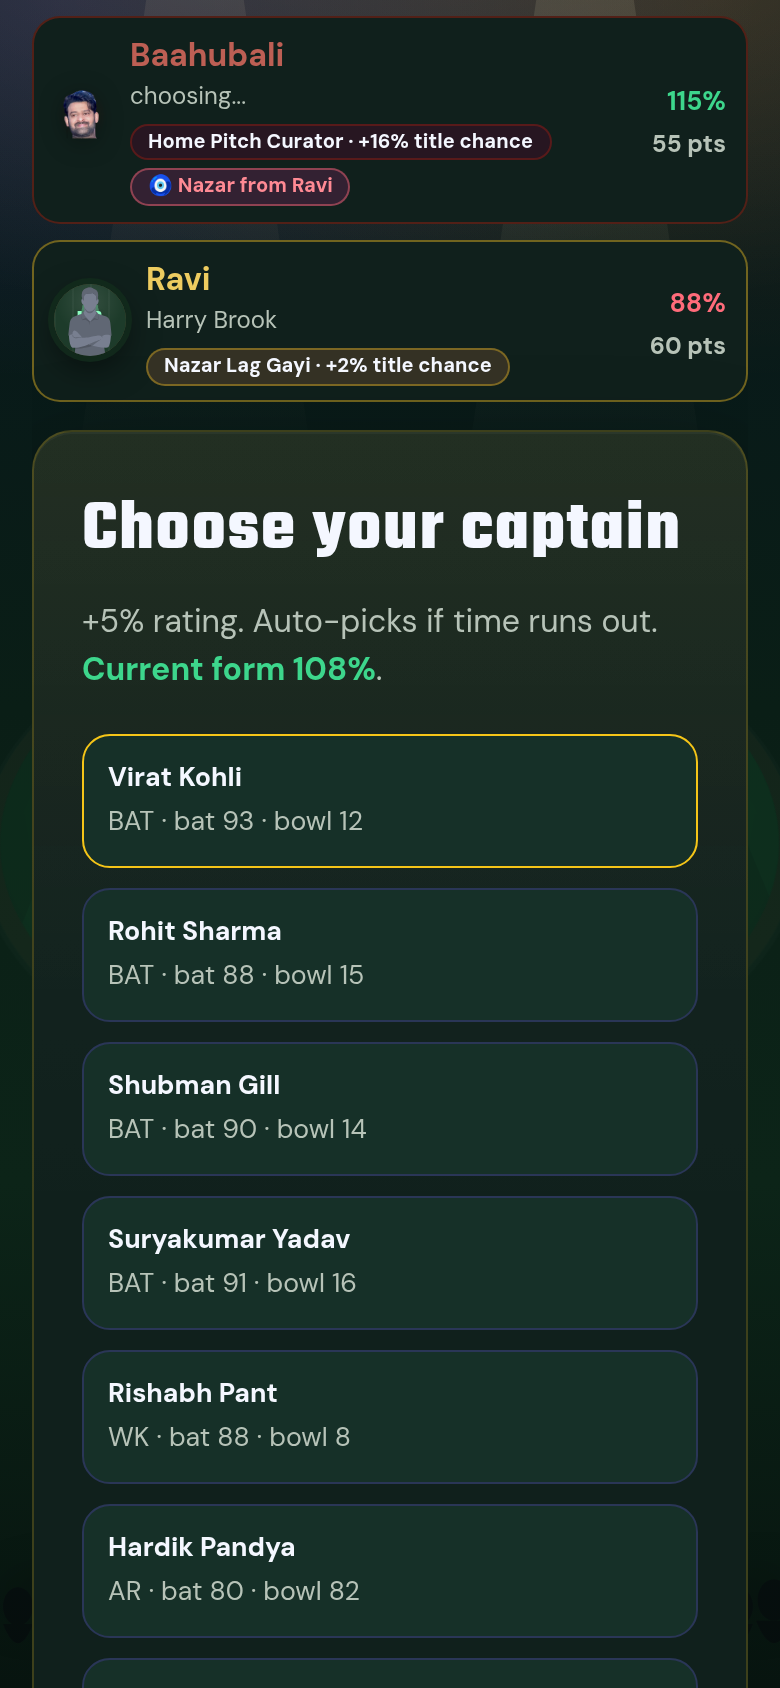
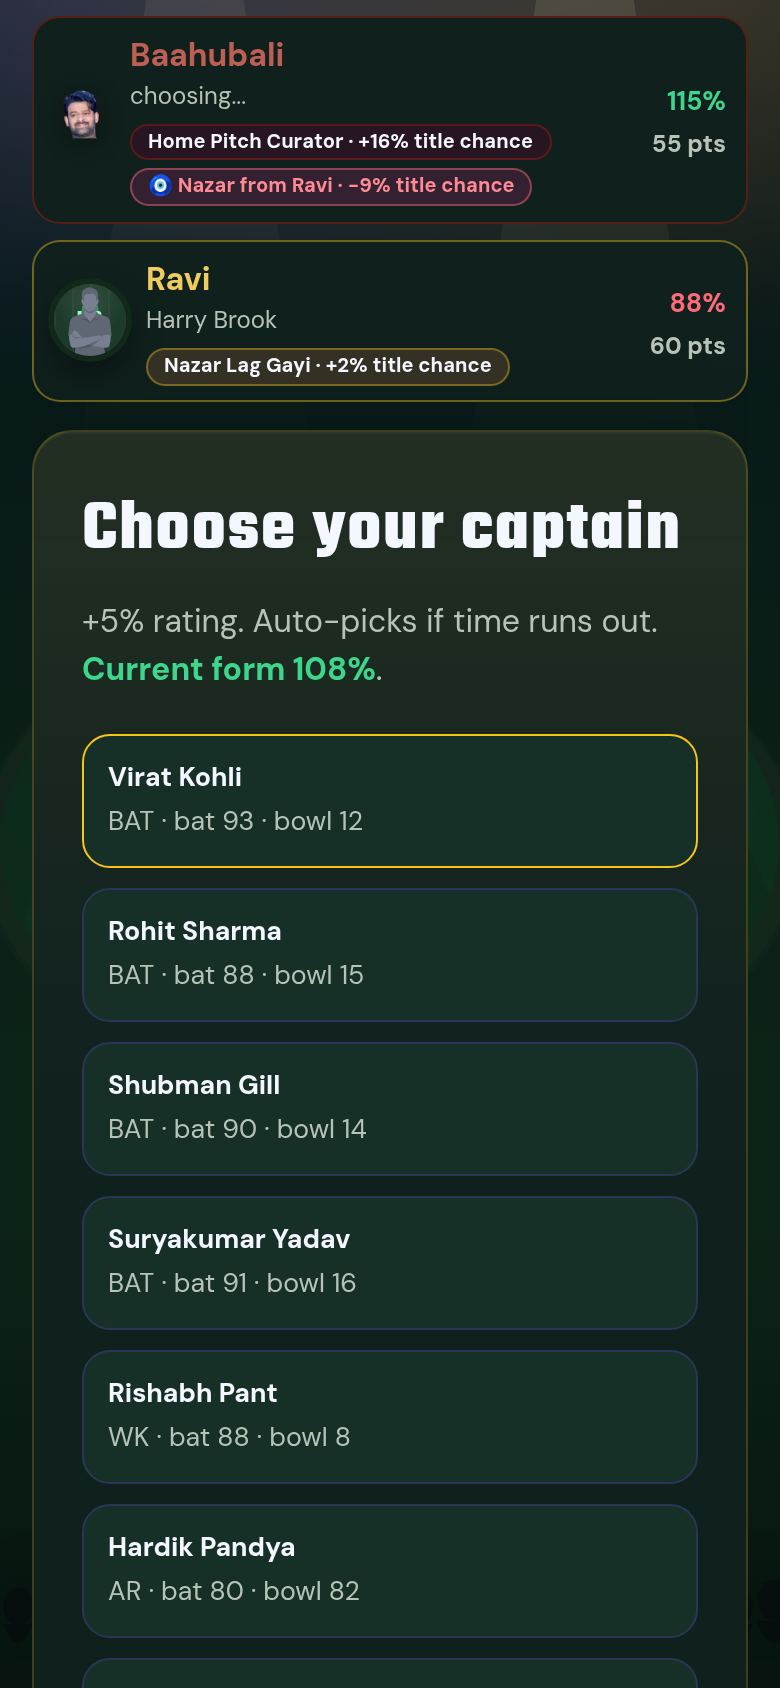
Show each curse's hit to the victim's title chance on the board and in the form reveal.

Changed region(s): [[0.4308, 0.0924, 0.6769, 0.1232]]

diff --git a/scripts/shot-booster-board.js b/scripts/shot-booster-board.js
@@ -162,7 +162,7 @@ async function main() {
     await waitFor(host, () => {
       const text = (document.getElementById("prep-screen") && document.getElementById("prep-screen").innerText) || "";
       const chips = document.querySelectorAll(".prep-chip").length;
-      return chips >= 6 && /Lucky Toss Coin/.test(text) && /\+3% title chance/.test(text) && /Nazar from Ravi/.test(text) && /choosing/.test(text);
+      return chips >= 6 && /Lucky Toss Coin/.test(text) && /\+3% title chance/.test(text) && /Nazar from Ravi · [\u2212-]9% title chance/.test(text) && /choosing/.test(text);
     }, "purchases on board");
     await sleep(1600);
     await shot(host, "booster-board-curse.png", PHONE, { scroll: '[data-prep-team="Baahubali"]', hideTopbar: true });
@@ -172,27 +172,7 @@ async function main() {
       const names = Array.from(document.querySelectorAll("#prep-shop .booster strong")).map((el) => el.textContent.trim());
       return Boolean(shop && names[0] === "Team Bus Breakdown" && names[names.length - 1] === "DRS Wizard");
     }, "shop catalog order");
-    const mitron = room.findByName("Mitron");
-    const savedPurse = mitron.purseLakhs;
-    mitron.purseLakhs = 15;
-    room.bump("captains");
-    await waitFor(host, () => {
-      const shop = document.getElementById("prep-shop");
-      const text = shop ? shop.innerText : "";
-      const names = Array.from(document.querySelectorAll("#prep-shop .booster strong")).map((el) => el.textContent.trim());
-      const firstLocked = document.querySelector("#prep-shop .booster");
-      const noBuyOnFirst = firstLocked && !firstLocked.querySelector("[data-buy]");
-      const ownedLucky = /Lucky Toss Coin/.test(text) && /Owned/.test(text);
-      return Boolean(shop && names[0] === "Team Bus Breakdown" && /Not enough points/.test(text) && noBuyOnFirst && ownedLucky);
-    }, "shop locked reasons");
     await shot(host, "booster-shop-sorted.png", PHONE, { scroll: "#prep-shop", hideTopbar: true });
-    mitron.purseLakhs = savedPurse;
-    room.bump("captains");
-    await waitFor(host, (purse) => {
-      const shop = document.getElementById("prep-shop");
-      const text = shop ? shop.innerText : "";
-      return Boolean(shop && text.includes("Purse:") && text.includes(String(purse)));
-    }, "purse restored", 15000, savedPurse);
 
     await host.evaluate(() => {
       const card = document.querySelector('[data-prep-team="Mitron"]');
@@ -232,7 +212,7 @@ async function main() {
     await waitFor(host, () => {
       const el = document.getElementById("form-boost-reveal");
       const text = el ? el.innerText : "";
-      return Boolean(el && /Current form swings/.test(text) && /Nazar Lag Gayi/.test(text) && /Net Session Masterclass/.test(text));
+      return Boolean(el && /Current form swings/.test(text) && /Nazar Lag Gayi/.test(text) && /[\u2212-]9% title chance/.test(text) && /Net Session Masterclass/.test(text));
     }, "form reveal");
     await sleep(400);
     await shot(host, "booster-form-reveal.png", PHONE, { scroll: "#form-boost-reveal", hideTopbar: true });

diff --git a/server/boosters.js b/server/boosters.js
@@ -57,7 +57,7 @@ const BOOSTERS = [
     id: "bus-breakdown",
     name: "Team Bus Breakdown",
     pricePoints: 30,
-    impact: { size: "big", bars: 3, line: "Win chance about +4%. Rival title chance about -16%.", score: 22.966, titleWinPp: 4 },
+    impact: { size: "big", bars: 3, line: "Win chance about +4%. Rival title chance about -16%.", score: 22.966, titleWinPp: 4, rivalTitleWinPp: -16 },
     blurb: "Sabotage: one random rival arrives late and plays below par in every match.",
   },
   {
@@ -73,7 +73,7 @@ const BOOSTERS = [
     name: "Nazar Lag Gayi",
     pricePoints: 20,
     effect: "form-rival",
-    impact: { size: "medium", bars: 2, line: "Win chance about +2%. Rival form below 100% (title chance about -9%).", score: 12.414, titleWinPp: 2 },
+    impact: { size: "medium", bars: 2, line: "Win chance about +2%. Rival form below 100% (title chance about -9%).", score: 12.414, titleWinPp: 2, rivalTitleWinPp: -9 },
     needsTarget: true,
     blurb: "A lingering stare from the stands. Pick a rival and force their Current form below 100%.",
   },
@@ -111,6 +111,7 @@ function packImpact(b) {
     line: b.impact.line || "",
     score: Number(b.impact.score) || 0,
     titleWinPp: Number.isFinite(Number(b.impact.titleWinPp)) ? Number(b.impact.titleWinPp) : null,
+    rivalTitleWinPp: Number.isFinite(Number(b.impact.rivalTitleWinPp)) ? Number(b.impact.rivalTitleWinPp) : null,
   };
 }
 
@@ -147,6 +148,14 @@ function packBooster(b) {
   };
 }
 
+function formatTitleChance(pp) {
+  if (!Number.isFinite(Number(pp))) return "";
+  const n = Math.round(Number(pp));
+  if (n === 0) return "0% title chance";
+  const sign = n > 0 ? "+" : "\u2212";
+  return `${sign}${Math.abs(n)}% title chance`;
+}
+
 function rngRandom(rng) {
   if (typeof rng === "function") return rng;
   if (rng && typeof rng.random === "function") return rng.random.bind(rng);
@@ -178,6 +187,10 @@ function applyFormBoosters(teams, rng) {
   const events = [];
   const selfName = (getBooster(FORM_SELF_ID) || {}).name || "Net Session Masterclass";
   const curseName = (getBooster(FORM_RIVAL_ID) || {}).name || "Nazar Lag Gayi";
+  const curseImpact = (getBooster(FORM_RIVAL_ID) || {}).impact || {};
+  const curseChance = Number.isFinite(Number(curseImpact.rivalTitleWinPp))
+    ? ` (${formatTitleChance(curseImpact.rivalTitleWinPp)})`
+    : "";
 
   function casterLabel(casters) {
     return casters.map((c) => c.name).join(" & ");
@@ -246,7 +259,7 @@ function applyFormBoosters(teams, rng) {
           to,
           casters: casters.map((c) => c.name),
           boosterName: curseName,
-          message: `${curseName} from ${casterLabel(casters)}: ${name} form ${from}% -> ${to}%`,
+          message: `${curseName} from ${casterLabel(casters)}: ${name} form ${from}% -> ${to}%${curseChance}`,
         });
       }
     }
@@ -269,4 +282,5 @@ module.exports = {
   catalogByImpact,
   rollUniformPct,
   applyFormBoosters,
+  formatTitleChance,
 };

diff --git a/test/logic.test.js b/test/logic.test.js
@@ -770,6 +770,14 @@ describe("booster shop", () => {
     for (let i = 1; i < catalog.length; i++) {
       assert.ok(catalog[i - 1].impact.score >= catalog[i].impact.score, `${catalog[i - 1].id} before ${catalog[i].id}`);
     }
+    const bus = catalog.find((b) => b.id === "bus-breakdown");
+    const nazar = catalog.find((b) => b.id === "nazar");
+    assert.equal(bus.impact.rivalTitleWinPp, -16);
+    assert.equal(nazar.impact.rivalTitleWinPp, -9);
+    for (const b of catalog) {
+      if (b.id === "bus-breakdown" || b.id === "nazar") continue;
+      assert.equal(b.impact.rivalTitleWinPp, null, b.id);
+    }
     const room = primedRoom();
     room.beginCaptainPhase();
     assert.equal(room.phase, "captains");
@@ -812,7 +820,7 @@ describe("booster shop", () => {
 });
 
 describe("form boosters", () => {
-  const { getBooster, FORM_SELF_ID, FORM_RIVAL_ID, applyFormBoosters, rollUniformPct } = require("../server/boosters");
+  const { getBooster, FORM_SELF_ID, FORM_RIVAL_ID, applyFormBoosters, rollUniformPct, formatTitleChance } = require("../server/boosters");
 
   function primedThree() {
     const room = roomWith(["Ashutosh", "Priya", "Rohan"]);
@@ -979,6 +987,31 @@ describe("form boosters", () => {
     assert.ok(snap.formBoostReveal.changes.some((c) => /Net Session Masterclass/.test(c.message)));
     assert.equal(long.skipFormBoostReveal("Ashutosh").ok, true);
     assert.equal(long.phase, "results");
+  });
+
+  test("a landed curse reveal mentions the rival title-chance impact", () => {
+    assert.equal(formatTitleChance(-9), "\u22129% title chance");
+    const hit = applyFormBoosters([
+      { name: "Priya", formPct: 112, boosters: [{ id: FORM_RIVAL_ID, targetName: "Ashutosh" }] },
+      { name: "Ashutosh", formPct: 110, boosters: [] },
+    ], { random: () => 0 });
+    assert.equal(hit.length, 1);
+    assert.equal(hit[0].kind, "curse");
+    assert.equal(hit[0].message, "Nazar Lag Gayi from Priya: Ashutosh form 110% -> 85% (\u22129% title chance)");
+
+    const noop = applyFormBoosters([
+      { name: "Priya", formPct: 90, boosters: [{ id: FORM_RIVAL_ID, targetName: "Ashutosh" }] },
+      { name: "Ashutosh", formPct: 88, boosters: [] },
+    ], { random: () => 0 });
+    assert.equal(noop[0].kind, "curse-noop");
+    assert.equal(noop[0].message.includes("title chance"), false);
+
+    const cancel = applyFormBoosters([
+      { name: "Priya", formPct: 90, boosters: [{ id: FORM_RIVAL_ID, targetName: "Ashutosh" }] },
+      { name: "Ashutosh", formPct: 107, boosters: [{ id: FORM_SELF_ID }] },
+    ], { random: () => 0 });
+    assert.equal(cancel[0].kind, "cancel");
+    assert.equal(cancel[0].message.includes("title chance"), false);
   });
 
   test("rollUniformPct stays inside the requested inclusive range", () => {

diff --git a/public/app.js b/public/app.js
@@ -1736,12 +1736,22 @@ function prepBoosterKey(teamName, booster) {
   return `${teamName}::${booster && booster.id ? booster.id : ""}`;
 }
 
+function formatTitleChance(pp) {
+  if (pp == null || !Number.isFinite(Number(pp))) return "";
+  const n = Math.round(Number(pp));
+  if (n === 0) return "0% title chance";
+  const sign = n > 0 ? "+" : "\u2212";
+  return `${sign}${Math.abs(n)}% title chance`;
+}
+
 function titleChanceLabel(b) {
   const impact = impactOf(b);
-  if (!impact || impact.titleWinPp == null || !Number.isFinite(Number(impact.titleWinPp))) return "";
-  const n = Math.round(Number(impact.titleWinPp));
-  const sign = n > 0 ? "+" : "";
-  return `${sign}${n}% title chance`;
+  return impact ? formatTitleChance(impact.titleWinPp) : "";
+}
+
+function rivalTitleChanceLabel(b) {
+  const impact = impactOf(b);
+  return impact ? formatTitleChance(impact.rivalTitleWinPp) : "";
 }
 
 function boosterChip(teamName, b) {
@@ -1763,7 +1773,10 @@ function curseChip(caster, booster, victimName) {
   let short = booster.name || "Curse";
   if (booster.id === "nazar") short = "🧿 Nazar";
   else if (booster.id === "bus-breakdown") short = "🚌 Bus Breakdown";
-  return `<span class="prep-chip prep-chip-curse ${fresh ? "is-fresh" : ""}">${esc(short)} from ${esc(caster.name)}</span>`;
+  const full = (catalogById().get(booster.id) || booster);
+  const chance = rivalTitleChanceLabel(full);
+  const label = chance ? `${short} from ${caster.name} · ${chance}` : `${short} from ${caster.name}`;
+  return `<span class="prep-chip prep-chip-curse ${fresh ? "is-fresh" : ""}">${esc(label)}</span>`;
 }
 
 function catalogById() {

diff --git a/README.md b/README.md
@@ -23,7 +23,7 @@ This is a local MVP. Nothing is deployed, and no accounts are required.
   - **Points floor and bans:** purses cannot go below 0. A team that reaches 0 is immediately shown room-wide as **Banned for match fixing** — their chip is marked banned, and they cannot bid or use powers.
   - **Power waits and quick chat:** during Dolly's chai break, Salman/Taylor/Kim/Ranveer target picks, or Rakhi's swayamvar choice, everyone can still send emotes and that player's own character lines as quick chat (the same lines as in the emote picker). The server only accepts a line that belongs to the sender's character. Dolly's pause is unlimited and only she can end it with **Chai khatam** (the host cannot resume; if she disconnects, the auction auto-resumes after 30 seconds). Rakhi's rivals have 15 seconds to pay her 3 points or refuse; a timeout counts as a refuse and they sit out the **next** lot only.
   - **Auction list:** when the host starts, the server builds the list of players that will come up. For each role in the room's mode it randomly picks **numTeams × role slots**, plus a small buffer of **max(1, ceil(numTeams / 2))** extra players of that role, from the full player database (roles with no slots, such as all-rounders in Rapid or Bullet, are omitted). Those picks are combined and shuffled once with a Fisher–Yates shuffle (crypto-quality randomness in play; tests can inject a seed or RNG). The auction then goes through that list **in that order**. Players no incomplete team can use — every remaining team is already full in that role — are skipped automatically, not put on the block. The buffer covers the default-bid overflow case: a team that is not yet complete may be forced to keep a player whose role quota is already full, which can leave another team short of that role. If the list still runs out while a team needs a role, a further small batch of that role is appended from whoever is left in the database. The auction ends when every remaining team has a complete squad; auto-fill at 1 point is the final fallback. The auction header shows **Lot X of N** for the current position in that list.
-- **Captain & boosters:** once the auction ends, teams have **90 seconds** to pick a captain and (if they have leftover points) buy funny boosters from the shop. One of each booster per team, priced 10–30 points according to measured impact. Unspent points are kept but unused. The phase ends early only when every team has a captain and nobody can afford another booster. If time runs out, the server auto-picks the highest-rated captain. The captain gets a +5% rating boost. Two form boosters are the exception to the usual once-only form roll: **Net Session Masterclass** (19 points) guarantees your Current form finishes above 100% (a re-roll in 101–115 if it is not already; no extra bump if it already is), and **Nazar Lag Gayi** (20 points) lets you pick a rival and force their form below 100% (a re-roll in 85–99, or no change if it is already below). If a team has both its own guarantee and one or more curses, they cancel and the original form is kept. Those boosters are applied when the phase ends, before the tournament is simulated, and the form swings are shown in a short reveal. The captain/booster screen has a live board of every team's captain, boosters, points, Current form, and curse targets, plus a ticker of purchases. The shop lists boosters in decreasing order of measured impact, keeps the Small/Medium/Big tag, and hides the Buy button on anything you cannot buy. Team cards show only each booster's title-win chance, and curses such as Nazar Lag Gayi appear on the cursed team with the caster's name. Bought boosters have modest effects on the simulation and show up in results with any moments they triggered.
+- **Captain & boosters:** once the auction ends, teams have **90 seconds** to pick a captain and (if they have leftover points) buy funny boosters from the shop. One of each booster per team, priced 10–30 points according to measured impact. Unspent points are kept but unused. The phase ends early only when every team has a captain and nobody can afford another booster. If time runs out, the server auto-picks the highest-rated captain. The captain gets a +5% rating boost. Two form boosters are the exception to the usual once-only form roll: **Net Session Masterclass** (19 points) guarantees your Current form finishes above 100% (a re-roll in 101–115 if it is not already; no extra bump if it already is), and **Nazar Lag Gayi** (20 points) lets you pick a rival and force their form below 100% (a re-roll in 85–99, or no change if it is already below). If a team has both its own guarantee and one or more curses, they cancel and the original form is kept. Those boosters are applied when the phase ends, before the tournament is simulated, and the form swings are shown in a short reveal. The captain/booster screen has a live board of every team's captain, boosters, points, Current form, and curse targets, plus a ticker of purchases. The shop lists boosters in decreasing order of measured impact, keeps the Small/Medium/Big tag, and hides the Buy button on anything you cannot buy. Team cards show only each booster's title-win chance, and curses such as Nazar Lag Gayi appear on the cursed team with the caster's name and the measured hit to that team's title chance (for example, Nazar from Ravi · −9% title chance). When a curse actually changes form, the form-swing reveal mentions that impact too. Bought boosters have modest effects on the simulation and show up in results with any moments they triggered.
 - **Tournament:** only BAT, WK and AR players bat; only AR and BOWL players bowl. Strength is averaged over a full unit for the mode (Classical 7 batting-capable / 6 bowling-capable; Rapid 3/2; Bullet 2/1), so missing players count as zero and lopsided squads suffer. Innings length scales with the mode: Classical is a 20-over game (up to 10 wickets, bowlers capped at 4 overs, expected score around 155); Rapid is 10 overs (up to 4 wickets, 5-over cap, expected score around 78); Bullet is 6 overs (up to 2 wickets, the single bowler can bowl the lot, expected score around 47). Any squad member can be captain; if time runs out the server still auto-picks the highest-rated player. Form is rolled once when a squad is completed, as the average of two rolls in 85–115%, then shifted by up to **+5 / −5** points according to completion order (first to finish slightly hotter, last slightly colder; still random, with upsets possible). Auto-fill and last-team fill only affect that form rank — they do not apply any other penalty to the simulation or the scores. Then a round-robin league and playoffs (IPL-style if there are 4+ teams, or a top-2 final if fewer) are simulated internally to decide positions. Results are revealed in a **server-synced** standings crawl from last place up to the champion, one team at a time about every 2.8 seconds (or **Skip**). Each standings row shows position, team name (with a small co-owner portrait), the performance score out of 1000, and **Current form**. The champion row is highlighted. Finish tags and W–L sit on the team sheet, which opens when a row is tapped. The score is the existing squad strength, `round(clamp(S, 0, 110) / 110 * 1000)`, where S is the squad's simulated match strength (batting and bowling averages with empty-slot penalties, captain bump, form, and standing boosters; dew-factor and the bus nerf are left out). Typical complete Classical sides land roughly 600–850. Match-by-match fixtures and the playoff bracket are not shown; tapping a team opens a sheet with the full squad and each player's simulated tournament batting and bowling. Target: under 2 minutes.
 
 Player ratings in `data/players.json` are **informal estimates** for game balance, not official stats. Swap that file to use your own pool.
